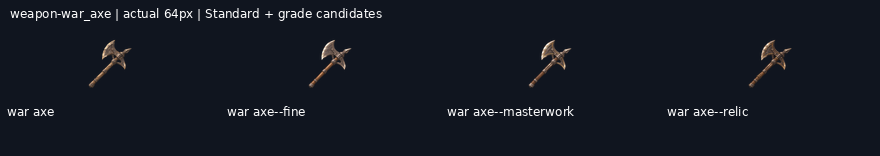
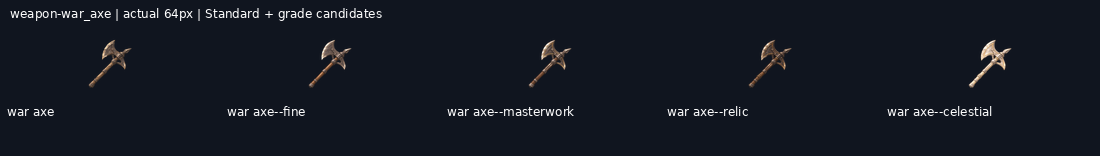
Deliver weapon-war_axe--celestial review candidate with native provenance and exports

diff --git a/art/_archive/gear/2026-11-21-retry-continuation/HANDOFF.md b/art/_archive/gear/2026-11-21-retry-continuation/HANDOFF.md
@@ -1,13 +1,13 @@
 # Reset continuation progress
 
-Branch: `art/2026-11-20-reset-continuation`. New deliveries: 33/41.
+Branch: `art/2026-11-20-reset-continuation`. New deliveries: 34/41.
 
 Shared coordination: https://github.com/leonpentastorm/Project-Heaven-Cry/issues/3 . Read START-HERE.md before extending this queue.
 
 All new entries remain review-candidate; production_approved:false and implementation_ready:false. Exact-outline review remains pending.
 
-Ready jobs: weapon-purifier_flamer--masterwork, weapon-ork_machete--masterwork, weapon-war_axe--celestial, weapon-war_pick--celestial.
+Ready jobs: weapon-purifier_flamer--masterwork, weapon-ork_machete--masterwork, weapon-war_pick--celestial.
 
-Pending jobs: weapon-purifier_flamer--masterwork, weapon-purifier_flamer--relic, weapon-purifier_flamer--celestial, weapon-ork_machete--masterwork, weapon-ork_machete--relic, weapon-ork_machete--celestial, weapon-war_axe--celestial, weapon-war_pick--celestial.
+Pending jobs: weapon-purifier_flamer--masterwork, weapon-purifier_flamer--relic, weapon-purifier_flamer--celestial, weapon-ork_machete--masterwork, weapon-ork_machete--relic, weapon-ork_machete--celestial, weapon-war_pick--celestial.
 
 Quota state: null.

diff --git a/art/briefs/prompts-2026-11-19/PRODUCTION-STATUS.md b/art/briefs/prompts-2026-11-19/PRODUCTION-STATUS.md
@@ -1,12 +1,12 @@
 # Current sole-artist production
 
-**546/871 (62.7%) selected review candidates.** Last delivery: `weapon-war_axe--relic`. Imports, exports, components, rejected attempts and archived alternatives add0. Artistic/implementation approvals remainfalse.
+**547/871 (62.8%) selected review candidates.** Last delivery: `weapon-war_axe--celestial`. Imports, exports, components, rejected attempts and archived alternatives add0. Artistic/implementation approvals remainfalse.
 
 | Requested work | Selected | Total |
 | --- | ---: | ---: |
 | icons_tiles | 88 | 88 |
 | new_repaint_standards | 53 | 104 |
-| grades | 391 | 656 |
+| grades | 392 | 656 |
 | uniques | 14 | 23 |
 
 Active run sole-20261121-0109, branch art/2026-11-20-reset-continuation. Shared live ledger: https://github.com/leonpentastorm/Project-Heaven-Cry/issues/3 . Current renewed grade lane: art/_archive/gear/2026-11-21-retry-continuation/START-HERE.md. All earlier512 candidate drawings were integrated before this lane; native bytes, cleaned imports, source metadata and all prior failures preserved.

diff --git a/art/_archive/gear/2026-11-20-reset-continuation/START-HERE.md b/art/_archive/gear/2026-11-20-reset-continuation/START-HERE.md
@@ -1,6 +1,6 @@
 # Current21November continuation
 
-546/871 selected. Active lane art/_archive/gear/2026-11-21-retry-continuation/START-HERE.md, run sole-20261121-0109. User explicitly authorized renewed fictional-art attempts; all priorart/errors preserved. Read liveissue3+allcomments and remote deliveries before everyrender. RunningScript completed with original marks unchanged. All approvalsfalse;0.30 holdsremain. See PRODUCTION-STATUS.md and REMAINING-WORK.json for the latest exact count.
+547/871 selected. Active lane art/_archive/gear/2026-11-21-retry-continuation/START-HERE.md, run sole-20261121-0109. User explicitly authorized renewed fictional-art attempts; all priorart/errors preserved. Read liveissue3+allcomments and remote deliveries before everyrender. RunningScript completed with original marks unchanged. All approvalsfalse;0.30 holdsremain. See PRODUCTION-STATUS.md and REMAINING-WORK.json for the latest exact count.
 
 # Historical20November handoff
 
